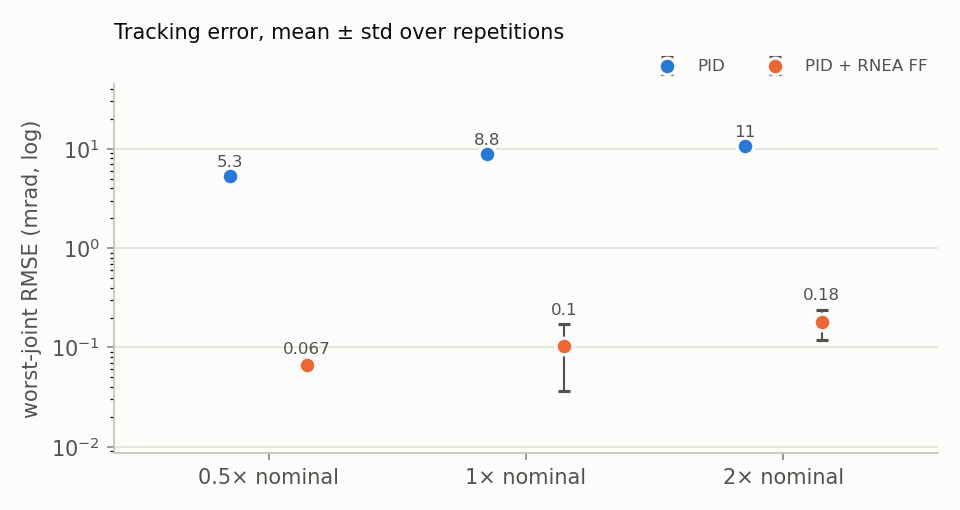
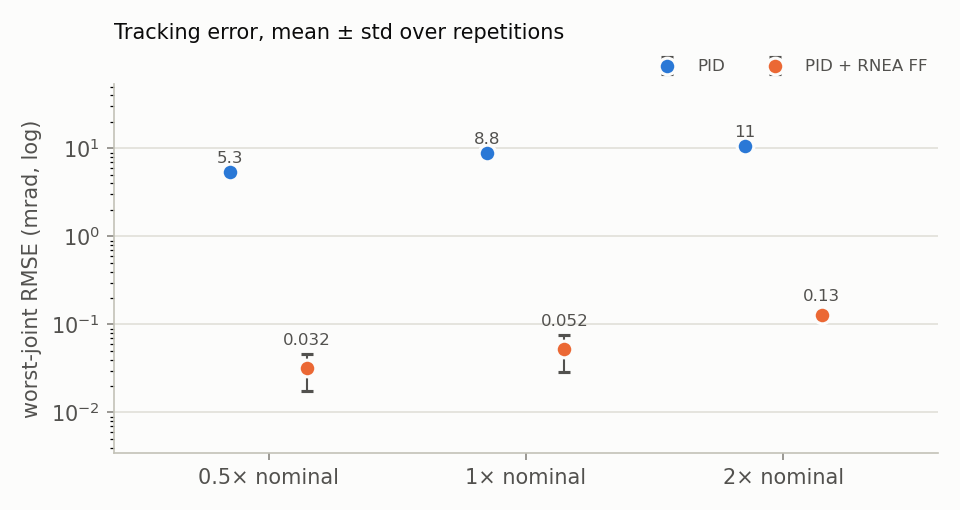
docs: regenerate all results at a single clean commit
Full scripts/regenerate_all.sh at c048632 (436 s wall): every CSV row
now carries the same commit, and docs/results.md notes that the
feedforward rows, being near the noise floor, vary more between whole
reruns than the within-run std shows.

diff --git a/scripts/make_results.py b/scripts/make_results.py
@@ -338,6 +338,9 @@ def results_markdown(track_rows, hg_rows) -> tuple[str, str]:
             "`~/joint_trajectory`. The error is the controller's own `q_des − q` at 500 Hz,",
             "from trajectory start to 0.5 s after the last",
             'reference motion. "Worst joint" = the joint with the largest RMSE in that run.',
+            "Whole-benchmark reruns reproduce the PID-only rows closely; the feedforward rows sit",
+            "near the noise floor and vary more between reruns than the within-run std shows",
+            "(the run log is in NOTES.md).",
             "",
             "![tracking](assets/tracking_rmse_light.png)",
             "",

diff --git a/docs/results.md b/docs/results.md
@@ -11,9 +11,9 @@ Every number on this page is computed by `scripts/make_results.py` from the CSVs
 
 | Speed (× nominal) | PID: worst-joint RMSE (mrad) | PID + RNEA FF: worst-joint RMSE (mrad) | PID: worst max \|e\| (mrad) | PID + RNEA FF: worst max \|e\| (mrad) | Regenerate with |
 |---|---|---|---|---|---|
-| 0.5 | 5.34 ± 0.01 | 0.07 ± 0.00 | 11.94 ± 0.03 | 0.49 ± 0.00 | `scripts/bench_tracking.sh` |
-| 1 | 8.82 ± 0.01 | 0.10 ± 0.07 | 20.68 ± 0.16 | 2.37 ± 2.44 | `scripts/bench_tracking.sh` |
-| 2 | 10.70 ± 0.03 | 0.18 ± 0.06 | 26.08 ± 0.14 | 2.49 ± 1.02 | `scripts/bench_tracking.sh` |
+| 0.5 | 5.34 ± 0.00 | 0.03 ± 0.01 | 11.89 ± 0.04 | 0.48 ± 0.00 | `scripts/bench_tracking.sh` |
+| 1 | 8.83 ± 0.01 | 0.05 ± 0.02 | 20.60 ± 0.05 | 0.87 ± 0.16 | `scripts/bench_tracking.sh` |
+| 2 | 10.70 ± 0.03 | 0.13 ± 0.02 | 26.11 ± 0.06 | 1.89 ± 0.00 | `scripts/bench_tracking.sh` |
 
 **Hand guiding with a wrong payload model** (GravityCompHandGuidingController, model payload fixed, actual Gazebo payload varied; mean ± std over repetitions):
 
@@ -21,11 +21,11 @@ Every number on this page is computed by `scripts/make_results.py` from the CSVs
 |---|---|---|---|---|---|---|
 | 1 / 0 | -1 | 374.40 ± 1.96 | 295.94 ± 4.14 | -9.81 ± 0.00 | -9.81 | `scripts/bench_handguide.sh` |
 | 1 / 1 | +0 | 0.00 ± 0.00 | 0.00 ± 0.00 | 0.00 ± 0.00 | 0.00 | `scripts/bench_handguide.sh` |
-| 1 / 2 | +1 | 201.94 ± 2.38 | 201.04 ± 3.53 | 9.81 ± 0.00 | 9.81 | `scripts/bench_handguide.sh` |
+| 1 / 2 | +1 | 202.04 ± 2.48 | 200.91 ± 3.35 | 9.81 ± 0.00 | 9.81 | `scripts/bench_handguide.sh` |
 
 ## Tracking — details
 
-`results/tracking.csv`: commit `7c938a6a6344`, seed 1, physics step 0.001 s, controller update rate 500 Hz; 3 repetitions per condition.
+`results/tracking.csv`: commit `26e5920ad554`, seed 1, physics step 0.001 s, controller update rate 500 Hz; 3 repetitions per condition.
 
 Method: the arm is homed by the tracking controller itself (feedforward on) to a
 seeded random offset (≤ 0.05 rad per joint) from the home pose; for the PID-only
@@ -34,6 +34,9 @@ gravity. A 3-waypoint path (2.5 s per segment at 1×) is sent on
 `~/joint_trajectory`. The error is the controller's own `q_des − q` at 500 Hz,
 from trajectory start to 0.5 s after the last
 reference motion. "Worst joint" = the joint with the largest RMSE in that run.
+Whole-benchmark reruns reproduce the PID-only rows closely; the feedforward rows sit
+near the noise floor and vary more between reruns than the within-run std shows
+(the run log is in NOTES.md).
 
 ![tracking](assets/tracking_rmse_light.png)
 
@@ -41,16 +44,16 @@ Per joint, RMSE / max |e| in mrad, mean ± std over repetitions:
 
 | Speed | Variant | shoulder_pan_joint RMSE / max (mrad) | shoulder_lift_joint RMSE / max (mrad) | elbow_joint RMSE / max (mrad) | wrist_1_joint RMSE / max (mrad) | wrist_2_joint RMSE / max (mrad) | wrist_3_joint RMSE / max (mrad) |
 |---|---|---|---|---|---|---|---|
-| 0.5 | PID | 0.17 ± 0.01 / 1.01 ± 0.03 | 1.00 ± 0.01 / 2.07 ± 0.02 | 0.09 ± 0.00 / 0.29 ± 0.00 | 1.24 ± 0.12 / 3.06 ± 0.33 | 5.34 ± 0.01 / 11.94 ± 0.03 | 0.07 ± 0.00 / 0.57 ± 0.02 |
-| 0.5 | PID + RNEA FF | 0.05 ± 0.00 / 0.37 ± 0.00 | 0.02 ± 0.00 / 0.12 ± 0.00 | 0.02 ± 0.00 / 0.15 ± 0.00 | 0.04 ± 0.00 / 0.28 ± 0.00 | 0.05 ± 0.00 / 0.38 ± 0.00 | 0.07 ± 0.00 / 0.49 ± 0.00 |
-| 1 | PID | 0.89 ± 0.04 / 3.42 ± 0.59 | 1.92 ± 0.01 / 4.15 ± 0.03 | 0.15 ± 0.00 / 0.70 ± 0.29 | 2.02 ± 0.23 / 4.87 ± 0.62 | 8.82 ± 0.01 / 20.68 ± 0.16 | 0.15 ± 0.02 / 1.66 ± 0.43 |
-| 1 | PID + RNEA FF | 0.08 ± 0.05 / 1.78 ± 1.86 | 0.02 ± 0.01 / 0.38 ± 0.24 | 0.03 ± 0.01 / 0.43 ± 0.23 | 0.06 ± 0.04 / 1.32 ± 1.36 | 0.08 ± 0.05 / 1.79 ± 1.84 | 0.10 ± 0.07 / 2.37 ± 2.44 |
-| 2 | PID | 4.61 ± 0.20 / 11.39 ± 0.65 | 3.66 ± 0.01 / 7.78 ± 0.18 | 0.41 ± 0.02 / 1.03 ± 0.04 | 2.85 ± 0.32 / 6.45 ± 0.94 | 10.70 ± 0.03 / 26.08 ± 0.14 | 0.53 ± 0.04 / 3.27 ± 0.56 |
-| 2 | PID + RNEA FF | 0.15 ± 0.04 / 1.87 ± 0.75 | 0.05 ± 0.01 / 0.49 ± 0.02 | 0.06 ± 0.02 / 0.61 ± 0.03 | 0.10 ± 0.03 / 1.41 ± 0.57 | 0.14 ± 0.04 / 1.95 ± 0.75 | 0.18 ± 0.06 / 2.49 ± 1.02 |
+| 0.5 | PID | 0.16 ± 0.01 / 1.00 ± 0.02 | 1.00 ± 0.01 / 2.11 ± 0.07 | 0.08 ± 0.01 / 0.36 ± 0.15 | 1.24 ± 0.12 / 3.06 ± 0.34 | 5.34 ± 0.00 / 11.89 ± 0.04 | 0.04 ± 0.01 / 0.76 ± 0.24 |
+| 0.5 | PID + RNEA FF | 0.02 ± 0.01 / 0.36 ± 0.00 | 0.01 ± 0.00 / 0.12 ± 0.00 | 0.01 ± 0.00 / 0.15 ± 0.00 | 0.02 ± 0.01 / 0.27 ± 0.00 | 0.02 ± 0.01 / 0.37 ± 0.01 | 0.03 ± 0.01 / 0.48 ± 0.00 |
+| 1 | PID | 0.89 ± 0.04 / 3.06 ± 0.33 | 1.92 ± 0.01 / 4.10 ± 0.09 | 0.15 ± 0.00 / 0.53 ± 0.02 | 2.02 ± 0.23 / 4.85 ± 0.59 | 8.83 ± 0.01 / 20.60 ± 0.05 | 0.14 ± 0.03 / 1.36 ± 0.15 |
+| 1 | PID + RNEA FF | 0.04 ± 0.02 / 0.65 ± 0.11 | 0.01 ± 0.00 / 0.24 ± 0.00 | 0.02 ± 0.00 / 0.30 ± 0.00 | 0.03 ± 0.01 / 0.49 ± 0.09 | 0.04 ± 0.02 / 0.67 ± 0.14 | 0.05 ± 0.02 / 0.87 ± 0.16 |
+| 2 | PID | 4.60 ± 0.20 / 11.42 ± 0.99 | 3.65 ± 0.01 / 7.65 ± 0.13 | 0.41 ± 0.02 / 1.08 ± 0.05 | 2.85 ± 0.32 / 6.44 ± 0.97 | 10.70 ± 0.03 / 26.11 ± 0.06 | 0.50 ± 0.02 / 2.94 ± 0.80 |
+| 2 | PID + RNEA FF | 0.11 ± 0.01 / 1.40 ± 0.10 | 0.04 ± 0.01 / 0.48 ± 0.02 | 0.05 ± 0.01 / 0.60 ± 0.03 | 0.08 ± 0.01 / 1.06 ± 0.02 | 0.11 ± 0.01 / 1.45 ± 0.14 | 0.13 ± 0.02 / 1.89 ± 0.00 |
 
 ## Hand guiding — details
 
-`results/handguide.csv`: commit `bd001f60c69b`, seed 1, physics step 0.001 s, controller update rate 500 Hz; 3 repetitions per condition.
+`results/handguide.csv`: commit `26e5920ad554`, seed 1, physics step 0.001 s, controller update rate 500 Hz; 3 repetitions per condition.
 
 Method: per repetition the tracking controller holds the arm at a seeded random
 offset (≤ 0.05 rad per joint) from home until its integrator has converged (3 s);

diff --git a/NOTES.md b/NOTES.md
@@ -178,3 +178,59 @@ then `source /opt/ros/lyrical/setup.bash` (and `install/setup.bash` after a buil
   controller's samples leaked into the next recording (gave exactly 0 N).
 - 05:42 final hand-guiding CSV (commit bd001f6): drift at 1 s 374 / 0 / 202 mm/s, displacement
   296 / 0 / 201 mm for Δm -1 / 0 / +1 kg. Tracking CSV unchanged (commit 7c938a6).
+
+### Acceptance status (feature prompt, v0.1 scope) — verified tonight
+
+| Item | Status | Evidence |
+|---|---|---|
+| CI green on GitHub | BLOCKED (billing) | MORNING.md #1; local equivalents below |
+| colcon build | done | `scripts/build.sh` (all 3 packages) |
+| colcon test, ≥ 12 gtest | done: 41 gtest cases, 45/45 colcon tests | `colcon test && colcon test-result` |
+| ci_smoke.sh | done locally (17 s; + mode switching section) | CHECKPOINTS.md |
+| rosdep for CI | `rosdep check --from-paths src --ignore-src` → all satisfied | |
+| Docker image builds | UNVERIFIED (no Docker here; CI blocked) | |
+| sim.launch.py mode:=track | see CHECKPOINT 4 | |
+| mode.launch.py track / handguide | done | CHECKPOINT 2, ci_smoke mode section |
+| results/tracking.csv, handguide.csv | done, 3 reps, commit + seed stamped | CHECKPOINT 3 |
+| GIFs ≤ 3 MB | done: 0.73 / 0.42 / 1.07 MB | record_gifs.sh output |
+| regenerate_all.sh < 60 min | done: 489 s and 438 s wall (two full runs) | NOTES above |
+| No hard-coded UR5e dynamics | done: all from robot_description via Pinocchio | `grep` of src: no masses/lengths |
+| THIRD_PARTY.md | only `.clang-format`; no code copied (sim.launch.py re-implements the stock launch's structure, see below) | |
+
+Note on THIRD_PARTY: `sim.launch.py` follows the structure of ur_simulation_gz's BSD-3
+`ur_sim_control.launch.py` (same nodes in the same roles) but is written fresh; no lines were
+copied, so it has no THIRD_PARTY entry. If you prefer to credit it anyway, add a row.
+
+## CHANGELOG entry for this session
+
+See CHANGELOG.md `[Unreleased]` (Added: skeleton, bringup, two controllers, Pinocchio wrapper,
+41 gtests, mode manager, two benchmarks, GIF pipeline, docs; Fixed: stock-launch workarounds,
+deactivation torque drop, RT-safe parameters and trajectory hand-off, gravity mismatch,
+hand-guiding damping and fallback).
+
+## Open questions for Giri
+
+1. CI: fix the Actions billing/spending limit, or make the repo public when ready (MORNING #1)?
+2. Commit author e-mail is `the old work e-mail` (global git config). Keep it, or set your
+   personal address for this repo (MORNING #2)?
+3. README "What transfers to a real UR": is "the stock driver gives position/velocity, not
+   torque" the claim you want, given newer PolyScope torque features?
+4. Hand-guiding damping [25, 25, 15, 3, 1.5, 0.05] is my choice (drift vs push effort).
+5. SHOULD (TcpJogController + bench_jog) was not started: the MUST's "CI green" item is not
+   green (billing), and the sprint rule says SHOULD only after MUST is green. Start it once CI
+   runs?
+6. Do you want the stock `ur_sim_control.launch.py` failures (no params on Lyrical, double
+   spawn) reported upstream to Universal_Robots_ROS2_GZ_Simulation? I did not open any issue.
+7. gz_ros2_control 3.0.9 effort -> position switch leaves joints uncommanded (arm falls): worth
+   an upstream issue once you have checked it against the current source?
+
+### Time log (continued)
+
+- 05:53 final run at HEAD 26e5920 (clean): ci_smoke PASS 23 s (incl. track/handguide mode
+  check), `regenerate_all.sh` **436 s wall** (tracking 273 s, hand guiding 108 s, GIFs). All CSV
+  rows stamped 26e5920. Run-to-run: tracking FF worst-joint RMSE at 1x was 0.10 ± 0.07 mrad
+  (commit 7c938a6 run) vs 0.05 ± 0.02 (final); PID-only 8.82 vs 8.83 mrad. Hand guiding identical
+  to the bd001f6 run to the printed precision.
+- 05:55 acceptance: `ros2 launch ur5e_teaching_bringup sim.launch.py gazebo_gui:=false
+  launch_rviz:=false mode:=track` -> pid_ff_trajectory_controller active after 11 s, trajectory
+  followed, 22 s total (< 120 s).

diff --git a/README.md b/README.md
@@ -5,7 +5,7 @@
 ![UR5e switching between trajectory tracking and gravity-compensated hand guiding in Gazebo](docs/assets/hero.gif)
 
 This is a set of ros2_control effort controllers for a simulated UR5e (ROS 2 Lyrical, Gazebo Jetty): joint-space PID tracking with Pinocchio RNEA feedforward, and gravity-compensated hand guiding with a runtime payload model. These are controllers I shipped on production 6-axis arms, rebuilt in public on a UR5e, with every dynamics term computed from the URDF instead of hand-tuned. <!-- headline:begin -->
-At 1× nominal speed the RNEA feedforward brings the worst-joint tracking RMSE to 0.10 ± 0.07 mrad (PID alone: 8.82 ± 0.01 mrad), and in hand guiding a 1 kg payload-model error costs the operator 9.81 ± 0.00 N of vertical force to hold the arm still (Δm·g = 9.81 N) and, let go, carries the TCP 201 ± 4 mm in one second.
+At 1× nominal speed the RNEA feedforward brings the worst-joint tracking RMSE to 0.05 ± 0.02 mrad (PID alone: 8.83 ± 0.01 mrad), and in hand guiding a 1 kg payload-model error costs the operator 9.81 ± 0.00 N of vertical force to hold the arm still (Δm·g = 9.81 N) and, let go, carries the TCP 201 ± 3 mm in one second.
 <!-- headline:end -->
 
 **Language split:** C++17 for everything in the 500 Hz control loop (controllers, Pinocchio
@@ -55,9 +55,9 @@ numbers and the commit/seed of each run are in [docs/results.md](docs/results.md
 
 | Speed (× nominal) | PID: worst-joint RMSE (mrad) | PID + RNEA FF: worst-joint RMSE (mrad) | PID: worst max \|e\| (mrad) | PID + RNEA FF: worst max \|e\| (mrad) | Regenerate with |
 |---|---|---|---|---|---|
-| 0.5 | 5.34 ± 0.01 | 0.07 ± 0.00 | 11.94 ± 0.03 | 0.49 ± 0.00 | `scripts/bench_tracking.sh` |
-| 1 | 8.82 ± 0.01 | 0.10 ± 0.07 | 20.68 ± 0.16 | 2.37 ± 2.44 | `scripts/bench_tracking.sh` |
-| 2 | 10.70 ± 0.03 | 0.18 ± 0.06 | 26.08 ± 0.14 | 2.49 ± 1.02 | `scripts/bench_tracking.sh` |
+| 0.5 | 5.34 ± 0.00 | 0.03 ± 0.01 | 11.89 ± 0.04 | 0.48 ± 0.00 | `scripts/bench_tracking.sh` |
+| 1 | 8.83 ± 0.01 | 0.05 ± 0.02 | 20.60 ± 0.05 | 0.87 ± 0.16 | `scripts/bench_tracking.sh` |
+| 2 | 10.70 ± 0.03 | 0.13 ± 0.02 | 26.11 ± 0.06 | 1.89 ± 0.00 | `scripts/bench_tracking.sh` |
 
 **Hand guiding with a wrong payload model** (GravityCompHandGuidingController, model payload fixed, actual Gazebo payload varied; mean ± std over repetitions):
 
@@ -65,7 +65,7 @@ numbers and the commit/seed of each run are in [docs/results.md](docs/results.md
 |---|---|---|---|---|---|---|
 | 1 / 0 | -1 | 374.40 ± 1.96 | 295.94 ± 4.14 | -9.81 ± 0.00 | -9.81 | `scripts/bench_handguide.sh` |
 | 1 / 1 | +0 | 0.00 ± 0.00 | 0.00 ± 0.00 | 0.00 ± 0.00 | 0.00 | `scripts/bench_handguide.sh` |
-| 1 / 2 | +1 | 201.94 ± 2.38 | 201.04 ± 3.53 | 9.81 ± 0.00 | 9.81 | `scripts/bench_handguide.sh` |
+| 1 / 2 | +1 | 202.04 ± 2.48 | 200.91 ± 3.35 | 9.81 ± 0.00 | 9.81 | `scripts/bench_handguide.sh` |
 <!-- results:end -->
 
 <picture>
